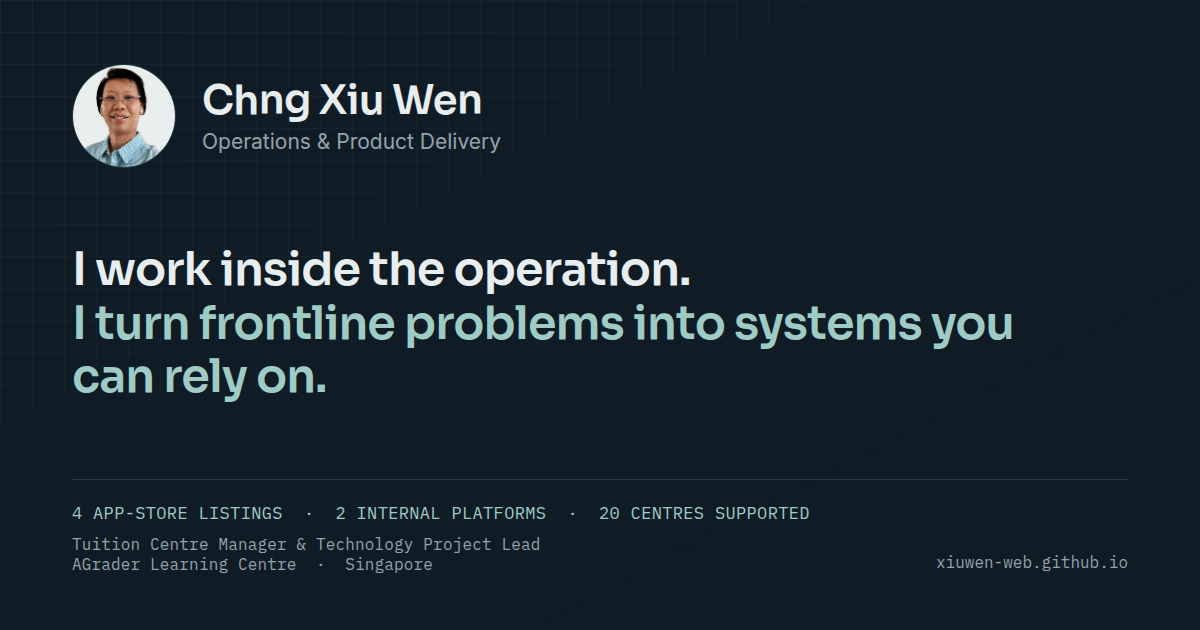
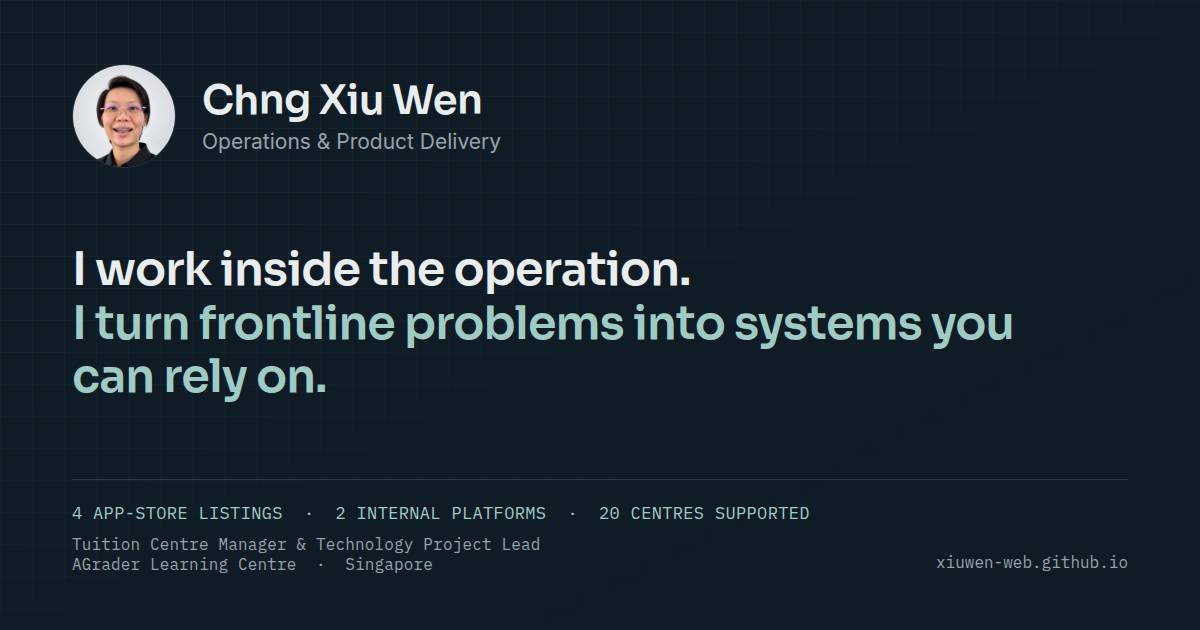
Use the studio headshot as the portrait (#14)
Xiu Wen's studio headshot from her Drive replaces the 211px résumé crop, cropped square at 512px under a new filename; the share card is regenerated with it.

Changed region(s): [[0.0617, 0.0905, 0.1233, 0.2714]]

diff --git a/src/content/profile.ts b/src/content/profile.ts
@@ -271,12 +271,11 @@ export const profile: Profile = {
    * because the filename is part of what gets exposed.
    */
   resumePath: '/documents/Xiu-Wen-Resume.pdf',
-  /* Dated filename: the photo was replaced in place on 2026-09-28 and caches
-     kept serving the old one under the same URL. A new name is a new URL. */
-  photoPath: '/images/xiu-wen-portrait-2026-09.webp',
-  /* The résumé photo since 2026-09-28, at Xiu Wen's request: background
-     replaced with plain light grey, cropped square from the 211x267 original
-     — enough for the 104px portrait at 2x. */
+  /* Versioned filename: a photo replaced in place is served stale from
+     caches under the same URL, so every new photo gets a new name. */
+  photoPath: '/images/xiu-wen-portrait-2026-10.webp',
+  /* Xiu Wen's studio headshot since 2026-10-01, supplied from her Drive at
+     1086x1448 and cropped square to 512px. Plain light background as shot. */
   photoAlt: 'Xiu Wen, Operations and Product Delivery',
 };
 

diff --git a/tools/og-card.html b/tools/og-card.html
@@ -165,7 +165,7 @@
     <span class="blueprint"></span>
     <div class="frame">
       <div class="masthead">
-        <img class="portrait" src="../public/images/xiu-wen-portrait-2026-09.webp" alt="" />
+        <img class="portrait" src="../public/images/xiu-wen-portrait-2026-10.webp" alt="" />
         <div>
           <div class="name">Chng Xiu Wen</div>
           <div class="discipline">Operations &amp; Product Delivery</div>
